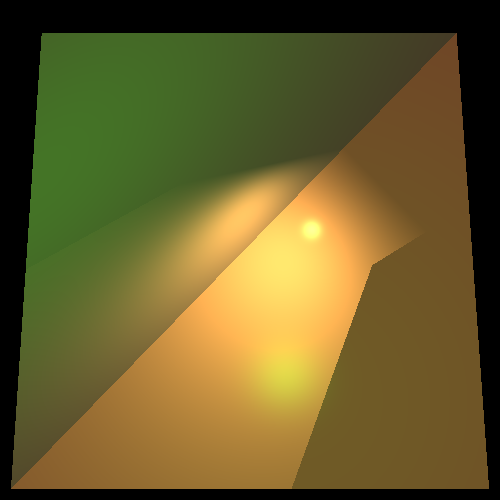
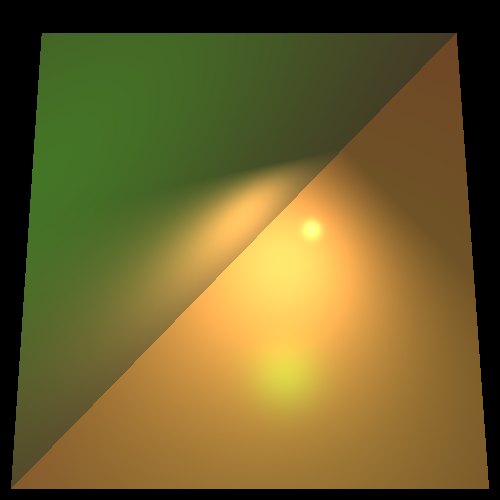
fixed maxdistance

Changed region(s): [[0.57, 0.48, 0.93, 0.99]]

diff --git a/src/renderer/RayTracerBasic.java b/src/renderer/RayTracerBasic.java
@@ -60,7 +60,7 @@ public class RayTracerBasic extends RayTracerBase {
         Vector epsVector = n.scale(nv < 0 ? DELTA : -DELTA);
         Point point = gp._point.add(epsVector);
         Ray lightRay = new Ray(point, lightDir);
-        List<GeoPoint> intersections = _scene._geometries.findGeoIntersections(lightRay);
+        List<GeoPoint> intersections = _scene._geometries.findGeoIntersections(lightRay,light.getDistance(gp._point));
 //        if (intersections==null)
 //            return true;
 //        double disSquared = gp._point.distanceSquared(light.)
